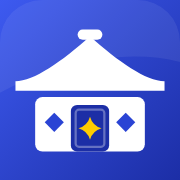
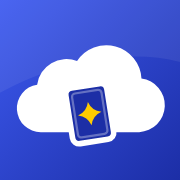
Rebrand to POKEKUMO (ポケ雲, pokekumo.com)
- New name POKEKUMO (ポケ雲, "kumo" = cloud), company name Pokekumo,
  support@pokekumo.com and https://pokekumo.com as defaults.
- New logo: a trading card on a white cloud in the blue tile, with the
  POKEKUMO wordmark (Outfit, outlined) and ポケ雲 · JAPAN TCG WHOLESALE.
  Regenerated logo.svg, logo-white.svg, logo-mark.svg, wordmark.svg,
  favicon.svg/.ico, apple-touch-icon.png and logo-512.png.
- Link-preview image renamed to share-pokekumo.jpg, with the new logo
  and pokekumo.com.
- About page "Our name" now explains kumo (雲).
- Content version 7: existing shops still named POKEKURA / ポケ蔵 /
  Pokekura switch to the new name, and an unedited About page is
  updated. Domain and emails stay as set, to change in Settings once
  pokekumo.com and its mailbox are live.
- robots.txt, admin hints, installer zip name (pokekumo-upload.zip),
  card templates and README renamed.

Claude-Session: https://claude.ai/code/session_013xbE6kjtoom5wVYHX8XJkY

Changed region(s): [[0.0833, 0.1389, 0.9167, 0.8611], [0.25, 0.3333, 0.3333, 0.3889]]

diff --git a/tools/build-installer.php b/tools/build-installer.php
@@ -6,7 +6,7 @@
                             assets/, .htaccess, robots.txt and data/ next to itself, then becomes the
                             shop's real index.php. Existing data (products, orders, the admin login) is
                             never overwritten, so the same file also updates a running shop.
-   dist/pokekura-upload.zip the same files as a zip, to upload and "Extract" in the host's File Manager.
+   dist/pokekumo-upload.zip the same files as a zip, to upload and "Extract" in the host's File Manager.
 
    The site travels inside index.php as plain base64 text with a SHA-256 fingerprint, so a copy that
    was damaged on the way (text-mode FTP, an editor, a cut-off upload) is detected before anything
@@ -51,7 +51,7 @@ foreach($files as $rel=>$data) $pack .= pack('N', strlen($rel)).$rel.pack('N', s
 $stub = <<<'PHP'
 <?php
 /* =============================================================
-   POKEKURA — the whole shop in this one file.
+   POKEKUMO — the whole shop in this one file.
 
    1. Upload this index.php to your web space (e.g. public_html)
       with your host's File Manager "Upload" button.
@@ -89,7 +89,7 @@ function pk_damaged(){
     '<h2>To fix it</h2><ol><li>Download <code>index.php</code> again (don’t open it).</li>'.
     '<li>In your hosting control panel open <b>File Manager</b> → <code>public_html</code> and use the <b>Upload</b> button to upload it (if you use FTP, set the transfer mode to <b>Binary</b>).</li>'.
     '<li>Open this page again.</li></ol>'.
-    '<p class="n">Or use <code>pokekura-upload.zip</code>: upload it to <code>public_html</code>, right-click it and choose <b>Extract</b>.</p>');
+    '<p class="n">Or use <code>pokekumo-upload.zip</code>: upload it to <code>public_html</code>, right-click it and choose <b>Extract</b>.</p>');
 }
 
 /* 1. PHP version */
@@ -130,7 +130,7 @@ if(!function_exists('imagecreatetruecolor')) $pk_warn[] = 'The PHP <b>gd</b> ext
 /* 4. can PHP write here? */
 if(!is_writable($pk_dir))
   pk_page('Can’t install', '<h1>The shop can’t unpack itself in this folder</h1><div class="e">PHP isn’t allowed to create files here. Nothing was installed.</div>'.
-    '<p class="n">Use <code>pokekura-upload.zip</code> instead: upload it to <code>public_html</code> in File Manager, right-click it and choose <b>Extract</b>. Or ask your host to make the folder writable by PHP.</p>');
+    '<p class="n">Use <code>pokekumo-upload.zip</code> instead: upload it to <code>public_html</code> in File Manager, right-click it and choose <b>Extract</b>. Or ask your host to make the folder writable by PHP.</p>');
 
 /* 5. unpack */
 $pk_files = array(); $pos = 0; $len = strlen($pk_pack);
@@ -144,7 +144,7 @@ $done = array(); $kept = array();
 foreach($pk_files as $rel=>$data){
   if($rel === 'index.php' || !preg_match('#^[A-Za-z0-9._/-]+$#', $rel) || strpos($rel, '..') !== false) continue;
   $path = $pk_dir.'/'.$rel;
-  if(!is_dir(dirname($path)) && !@mkdir(dirname($path), 0755, true)) pk_page('Can’t install', '<h1>Couldn’t create the folder '.htmlspecialchars(dirname($rel)).'</h1><p class="n">Use <code>pokekura-upload.zip</code> instead, or ask your host to make this folder writable by PHP.</p>');
+  if(!is_dir(dirname($path)) && !@mkdir(dirname($path), 0755, true)) pk_page('Can’t install', '<h1>Couldn’t create the folder '.htmlspecialchars(dirname($rel)).'</h1><p class="n">Use <code>pokekumo-upload.zip</code> instead, or ask your host to make this folder writable by PHP.</p>');
   if(strpos($rel, 'data/') === 0 && !in_array($rel, array('data/.htaccess', 'data/index.html'), true) && file_exists($path)){ $kept[] = $rel; continue; }   /* your data stays */
   if($rel === '.htaccess' && is_file($path)){
     $old = (string)file_get_contents($path);
@@ -152,7 +152,7 @@ foreach($pk_files as $rel=>$data){
     $data = rtrim($old)."\n\n".$data;                                                  /* keep the host's own rules */
   }
   $tmp = $path.'.'.mt_rand(100000, 999999).'.tmp';
-  if(@file_put_contents($tmp, $data) === false || !@rename($tmp, $path)){ @unlink($tmp); pk_page('Can’t install', '<h1>Couldn’t write '.htmlspecialchars($rel).'</h1><p class="n">Use <code>pokekura-upload.zip</code> instead, or ask your host to make this folder writable by PHP.</p>'); }
+  if(@file_put_contents($tmp, $data) === false || !@rename($tmp, $path)){ @unlink($tmp); pk_page('Can’t install', '<h1>Couldn’t write '.htmlspecialchars($rel).'</h1><p class="n">Use <code>pokekumo-upload.zip</code> instead, or ask your host to make this folder writable by PHP.</p>'); }
   @chmod($path, 0644);
   $done[] = $rel;
 }
@@ -167,7 +167,7 @@ foreach(array('index.html', 'index.htm', 'default.php', 'default.html', 'default
 $target = $pk_dir.'/index.php';
 if($pk_self !== 'index.php' && is_file($target) && strpos((string)@file_get_contents($target, false, null, 0, 4000), 'FK_ROOT') === false) @rename($target, $target.'.old');
 $tmp = $target.'.'.mt_rand(100000, 999999).'.tmp';
-if(@file_put_contents($tmp, $pk_files['index.php']) === false || !@rename($tmp, $target)){ @unlink($tmp); pk_page('Couldn’t finish', '<h1>Couldn’t finish</h1><p class="n">The shop files are unpacked, but index.php couldn’t be replaced. Use <code>pokekura-upload.zip</code> instead.</p>'); }
+if(@file_put_contents($tmp, $pk_files['index.php']) === false || !@rename($tmp, $target)){ @unlink($tmp); pk_page('Couldn’t finish', '<h1>Couldn’t finish</h1><p class="n">The shop files are unpacked, but index.php couldn’t be replaced. Use <code>pokekumo-upload.zip</code> instead.</p>'); }
 @chmod($target, 0644);
 if($pk_self !== 'index.php') @unlink(__FILE__);
 if(function_exists('opcache_invalidate')){ @opcache_invalidate($target, true); @opcache_invalidate(__FILE__, true); }
@@ -193,11 +193,11 @@ printf("dist/index.php: %d files, %.0f KB%s\n", count($files), filesize("$root/d
 
 /* the same files as a zip, for hosts where uploading a zip and choosing "Extract" is easier */
 if(class_exists('ZipArchive')){
-  $zf = "$root/dist/pokekura-upload.zip"; @unlink($zf);
+  $zf = "$root/dist/pokekumo-upload.zip"; @unlink($zf);
   $z = new ZipArchive();
   if($z->open($zf, ZipArchive::CREATE) === true){
     foreach($files as $rel=>$data) $z->addFromString($rel, $data);
     $z->close();
-    printf("dist/pokekura-upload.zip: %d files, %.0f KB\n", count($files), filesize($zf) / 1024);
+    printf("dist/pokekumo-upload.zip: %d files, %.0f KB\n", count($files), filesize($zf) / 1024);
   }
 }

diff --git a/admin.php b/admin.php
@@ -1,6 +1,6 @@
 <?php
 /* =============================================================
-   POKEKURA — admin backend. Open /admin.php in your browser.
+   POKEKUMO — admin backend. Open /admin.php in your browser.
 
    The first visit asks you to create the admin password, so do
    that straight after uploading. Everything saved here goes to
@@ -500,7 +500,7 @@ if(is_admin() && $_SERVER['REQUEST_METHOD'] === 'POST'){
     $s['domain'] = rtrim($s['domain'], '/');
     $mv = rtrim(in_str('moved_to'), '/');
     if($mv === '' || preg_match('#^https?://[a-z0-9.-]+(:\d+)?$#i', $mv)) $s['moved_to'] = $mv;
-    else note('“This site has moved to” needs just the new address, like https://pokekura.com, so it was left unchanged.', 'err');
+    else note('“This site has moved to” needs just the new address, like https://pokekumo.com, so it was left unchanged.', 'err');
     foreach(['reply_hours','hold_hours'] as $k){ $n = num(in_str($k), 1); if($n !== null) $s[$k] = (int)$n; }
     $min = num(in_str('min_order_usd'), 0); if($min !== null) $s['min_order_usd'] = round($min, 2);
     $s['home_seo_title'] = str(in_arr('home')['seo_title'] ?? '');
@@ -1293,7 +1293,7 @@ dl.kv dt{color:var(--muted)} dl.kv dd{margin:0;word-break:break-word}
         <div class="fld"><label class="f" for="order_email">Send new orders to</label><input type="email" id="order_email" name="order_email" value="<?= h($S['order_email']) ?>"></div>
         <div class="fld"><label class="f" for="phone">Phone (optional)</label><input type="text" id="phone" name="phone" value="<?= h($S['phone']) ?>"></div>
       </div>
-      <div class="fld"><label class="f" for="domain">Website address</label><input type="url" id="domain" name="domain" value="<?= h($S['domain']) ?>"><div class="hint">Used for Google and link previews, e.g. https://pokekura.com</div></div>
+      <div class="fld"><label class="f" for="domain">Website address</label><input type="url" id="domain" name="domain" value="<?= h($S['domain']) ?>"><div class="hint">Used for Google and link previews, e.g. https://pokekumo.com</div></div>
       <div class="fld"><label class="f" for="moved_to">This site has moved to (only for an old domain)</label><input type="url" id="moved_to" name="moved_to" value="<?= h($S['moved_to'] ?? '') ?>" placeholder="leave empty">
         <div class="hint">Fill this in <b>only</b> on an old domain you’re retiring: every shop page then redirects permanently (301) to the same page on the new address, which moves your Google rankings across. The admin keeps working. Leave it empty on your main site.</div></div>
     </div>

diff --git a/inc/store.php b/inc/store.php
@@ -75,7 +75,7 @@ function store_load(){
 /* Content that a newer version of the shop adds or improves, applied once to shops installed
    earlier. It only adds what's missing, and only replaces text the owner hasn't edited: each
    replaced item is checked against the exact default text it shipped with. */
-const CONTENT_VERSION = 6;
+const CONTENT_VERSION = 7;
 function content_upgrade($s, $d, $version){
   $new = array_column($d['guides'], null, 'slug');
   /* replace a guide with today's default, but only if it still matches the default it shipped with */
@@ -131,6 +131,13 @@ function content_upgrade($s, $d, $version){
     if(stripos((string)($s['settings']['domain'] ?? ''), 'pokekura.com') !== false)
       $s['settings']['chat_code'] = str_replace('embed.tawk.to/6ab599650aebd43443ef66b2/', 'embed.tawk.to/6abb9f8e86a597344956abe4/', (string)($s['settings']['chat_code'] ?? ''));
   }
+  if($version < 7){   /* POKEKURA is now POKEKUMO (ポケ雲): the name, kanji and company name where they're still the old defaults */
+    foreach(['brand'=>['POKEKURA', 'POKEKUMO'], 'kanji'=>['ポケ蔵', 'ポケ雲'], 'legal_name'=>['Pokekura', 'Pokekumo']] as $k=>[$old, $now])
+      if(($s['settings'][$k] ?? '') === $old) $s['settings'][$k] = $now;
+    foreach($s['pages'] ?? [] as $i=>$pg)
+      if(($pg['slug'] ?? '') === 'about' && md5(json_encode([$pg['title'] ?? '', $pg['seo_title'] ?? '', $pg['seo_desc'] ?? '', $pg['body'] ?? ''])) === '0418c3ac237c9c1706056b0b10d6bad6')
+        foreach($d['pages'] as $new) if(($new['slug'] ?? '') === 'about') $s['pages'][$i] = $new;
+  }
   $s['settings']['content_version'] = CONTENT_VERSION;
   return $s;
 }
@@ -152,11 +159,11 @@ function store_save($s){
 /* ---------------- products ---------------- */
 function photo_slots(){ return ['', '-2', '-3', '-4']; }
 
-/* the POKEKURA logo files (assets/logo-mark.svg, assets/wordmark.svg) inlined into a page, with the
+/* the POKEKUMO logo files (assets/logo-mark.svg, assets/wordmark.svg) inlined into a page, with the
    gradient id made unique per copy; '' when the shop runs under another name or the file is missing */
 function brand_svg($name, $class, $uid=''){
   global $STORE;
-  if(strcasecmp((string)($STORE['settings']['brand'] ?? ''), 'POKEKURA') !== 0) return '';
+  if(strcasecmp((string)($STORE['settings']['brand'] ?? ''), 'POKEKUMO') !== 0) return '';
   $svg = @file_get_contents(FK_ROOT.'/assets/'.$name.'.svg');
   if(!is_string($svg) || strpos($svg, '<svg') === false) return '';
   $svg = preg_replace('#<title>.*?</title>#s', '', $svg);

diff --git a/inc/defaults.php b/inc/defaults.php
@@ -6,15 +6,15 @@ if(!defined('FK_ROOT')){ http_response_code(404); exit; }
 
 $d = [
   'settings' => [
-    'brand'         => 'POKEKURA',
-    'kanji'         => 'ポケ蔵',
+    'brand'         => 'POKEKUMO',
+    'kanji'         => 'ポケ雲',
     'tagline'       => 'Japanese Pokémon TCG wholesale, shipped worldwide from Japan',
-    'legal_name'    => 'Pokekura',
+    'legal_name'    => 'Pokekumo',
     'address'       => 'Japan',
-    'email'         => 'support@pokekura.com',
+    'email'         => 'support@pokekumo.com',
     'phone'         => '',
-    'order_email'   => 'support@pokekura.com',
-    'domain'        => 'https://pokekura.com',
+    'order_email'   => 'support@pokekumo.com',
+    'domain'        => 'https://pokekumo.com',
     'reply_hours'   => 12,
     'hold_hours'    => 48,
     'min_order_usd' => 100,
@@ -28,7 +28,7 @@ $d = [
     'pretty_urls'   => false,            /* clean addresses like /products/151-booster-box: switched on by themselves when the host supports them */
     'pretty_auto'   => false,            /* set once that automatic switch has happened, so turning them off in the admin sticks */
     'free_ship_usd' => 2000,             /* free Standard shipping from this goods total (USD); 0 = off */
-    'content_version' => 6,              /* set by the shop: which built-in content updates are applied */
+    'content_version' => 7,              /* set by the shop: which built-in content updates are applied */
     'moved_to'      => '',               /* an old domain running this code can send every visitor here (301) */
     'google_verify' => '', 'bing_verify' => '',   /* Search Console / Bing verification codes (Admin → Settings) */
     /* SMTP for order emails (Admin → Settings → Email); blank host = the web host's mail() */
@@ -39,7 +39,7 @@ $d = [
     'btc_quote_minutes' => 60,           /* how long a BTC amount is held before it is renewed at the current price */
     'btc_confirmations' => 1,            /* blockchain confirmations before an order is marked Paid */
 
-    /* live chat (Tawk.to, POKEKURA's own property): loaded after the page has finished loading, so it never slows the shop down */
+    /* live chat (Tawk.to, the shop's own property): loaded after the page has finished loading, so it never slows the shop down */
     'chat_code' => <<<'HTML'
 <!--Start of Tawk.to Script-->
 <script type="text/javascript">

diff --git a/index.php b/index.php
@@ -1,6 +1,6 @@
 <?php
 /* =============================================================
-   POKEKURA — wholesale Japanese Pokémon TCG storefront. PHP 7.4+.
+   POKEKUMO — wholesale Japanese Pokémon TCG storefront. PHP 7.4+.
 
    Day-to-day editing — products, prices, photos, shipping rates,
    payment methods, business details, FAQ, orders — is done in
@@ -103,7 +103,7 @@ function cart_weight(){ $kg=0; foreach(cart_lines() as $l) $kg += (float)($l['p'
    Otherwise index.php?p=…  Links are written relative to <base href>, so the shop also works in a subfolder. */
 /* site photos (assets/site): the home page image until you upload your own in Settings, and the link-preview image */
 const SITE_HERO  = 'assets/site/pokemon-30th-celebration-elite-trainer-box.webp';
-const SITE_SHARE = 'assets/site/share-pokekura.jpg';   /* 1200 x 630 */
+const SITE_SHARE = 'assets/site/share-pokekumo.jpg';   /* 1200 x 630 */
 $BASE = rtrim(str_replace('\\', '/', dirname($_SERVER['SCRIPT_NAME'] ?? '/index.php')), '/').'/';
 const PAGE_PATHS = ['cart'=>'cart', 'checkout'=>'checkout', 'received'=>'order-received', 'how'=>'how-it-works',
                     'shipping'=>'shipping-returns', 'payment'=>'payment-methods', 'faq'=>'faq', 'contact'=>'contact',
@@ -111,7 +111,7 @@ const PAGE_PATHS = ['cart'=>'cart', 'checkout'=>'checkout', 'received'=>'order-r
 /* older addresses that now live on another page: path => [page, #section] */
 const MOVED_PATHS = ['shipping'=>['shipping', ''], 'returns'=>['shipping', 'returns']];
 
-/* the square logo mark: the last character of the Japanese name (蔵, "storehouse") */
+/* the square logo mark: the last character of the Japanese name (雲, "cloud") */
 function brand_mark(){
   global $CONFIG;
   if(preg_match('/(.)$/u', trim((string)($CONFIG['kanji'] ?? '')), $m)) return $m[1];

diff --git a/inc/content.php b/inc/content.php
@@ -1433,7 +1433,7 @@ MD],
 
 ## Our name
 
-{brand} ({kanji}) ends in **kura** (蔵), the Japanese word for a storehouse: a storehouse of Japanese trading cards.
+{brand} ({kanji}) ends in **kumo** (雲), the Japanese word for a cloud: Japanese trading cards, carried from Japan to anywhere in the world.
 
 ## Who we work with
 

diff --git a/README.md b/README.md
@@ -1,6 +1,6 @@
-# POKEKURA storefront
+# POKEKUMO storefront
 
-POKEKURA (ポケ蔵) is an independent distributor and reseller of authentic Japanese Pokémon TCG products, shipping wholesale orders worldwide from Japan. This is its shop, in plain PHP. It needs no database and runs on any PHP 7.4+ host.
+POKEKUMO (ポケ雲) is an independent distributor and reseller of authentic Japanese Pokémon TCG products, shipping wholesale orders worldwide from Japan. This is its shop, in plain PHP. It needs no database and runs on any PHP 7.4+ host.
 
 ## Files
 
@@ -18,13 +18,13 @@ You shouldn't need to edit any code. Day-to-day changes are made in `admin.php` 
 
 ## Logo
 
-`assets/logo.svg` is the full logo (the kura mark, POKEKURA and ポケ蔵 · JAPAN TCG WHOLESALE), `assets/logo-white.svg` the version for dark backgrounds, `assets/logo-mark.svg` the square mark, and `assets/wordmark.svg` the name alone. The lettering is converted to shapes, so it looks the same everywhere. The browser icons are `favicon.ico`, `assets/favicon.svg` and `assets/apple-touch-icon.png`; `assets/logo-512.png` is the logo Google shows for the business, and `assets/site/share-pokekura.jpg` is the picture shown when a page is shared on social media or in messages.
+`assets/logo.svg` is the full logo (the kumo mark, a trading card on a cloud, with POKEKUMO and ポケ雲 · JAPAN TCG WHOLESALE), `assets/logo-white.svg` the version for dark backgrounds, `assets/logo-mark.svg` the square mark, and `assets/wordmark.svg` the name alone. The lettering is converted to shapes, so it looks the same everywhere. The browser icons are `favicon.ico`, `assets/favicon.svg` and `assets/apple-touch-icon.png`; `assets/logo-512.png` is the logo Google shows for the business, and `assets/site/share-pokekumo.jpg` is the picture shown when a page is shared on social media or in messages.
 
 ## Install
 
 `php tools/build-installer.php [admin-password] [admin-username]` builds two things in `dist/` (with a password, both include that admin sign-in; the username is `admin` unless you give one). Needs PHP 7.4 or newer (8.2 or 8.3 recommended).
 
-**Easiest: the zip.** In your host's File Manager, open `public_html`, **Upload** `pokekura-upload.zip`, right-click it and choose **Extract**, then delete the zip. If the host put a placeholder page there (`index.html`, `default.php`), delete it too. Then open `https://your-domain/admin.php`.
+**Easiest: the zip.** In your host's File Manager, open `public_html`, **Upload** `pokekumo-upload.zip`, right-click it and choose **Extract**, then delete the zip. If the host put a placeholder page there (`index.html`, `default.php`), delete it too. Then open `https://your-domain/admin.php`.
 
 **Or one file:** upload `index.php` with File Manager's **Upload** button (FTP: *binary* mode) and open `https://your-domain/index.php` (with `/index.php`, in case the host's placeholder page would show first). It checks your hosting (PHP version and extensions, folder permissions), unpacks everything next to itself, keeps your host's own `.htaccess` rules, moves placeholder pages (`index.html`, `default.php`, …) aside, and becomes the shop's normal `index.php`. The site travels inside it as text with a fingerprint: if the file was damaged on the way (text-mode transfer, opened in an editor, cut off), it says so and changes nothing. Your data in `data/` is never overwritten, so uploading a newer one later updates the shop.
 
@@ -66,7 +66,7 @@ The Tawk.to chat code is in **Settings → Live chat**. It loads after each page
 
 ## Search engines (SEO)
 
-- **Moving from an old domain:** if an older copy of the shop has been live on another domain (e.g. fudakura.store), upload this version there too and set **Settings → This site has moved to** = `https://pokekura.com`. Every old page then 301-redirects to the same page here, and in Search Console you can use *Change of address*.
+- **Moving from an old domain:** if an older copy of the shop has been live on another domain (e.g. pokekura.com or fudakura.store), upload this version there too and set **Settings → This site has moved to** = `https://pokekumo.com`. Every old page then 301-redirects to the same page here, and in Search Console you can use *Change of address*.
 - **Clean addresses:** most hosts (Apache or LiteSpeed) support addresses like `/products/151-booster-box`. The shop checks this when it's installed (and again from the admin dashboard) and switches them on by itself when they work. To check by hand, open `https://your-domain/shop`: if the shop appears, **Clean page addresses** can be ticked in **Settings**. Old `index.php?p=…` links then redirect permanently to the clean ones. If you untick it, it stays off.
 - **What Google sees:** every product, category, set, collection, guide and page has its own title, description and main heading. You can edit all of them in the admin; blank fields fall back to sensible defaults.
 - **Google Search Console:** check clean addresses are on first (above), then add your site as a *URL prefix* property, choose *HTML tag*, paste the tag into **Settings → Google Search Console verification**, save and press Verify. Bing has a matching box, or can import from Search Console.
